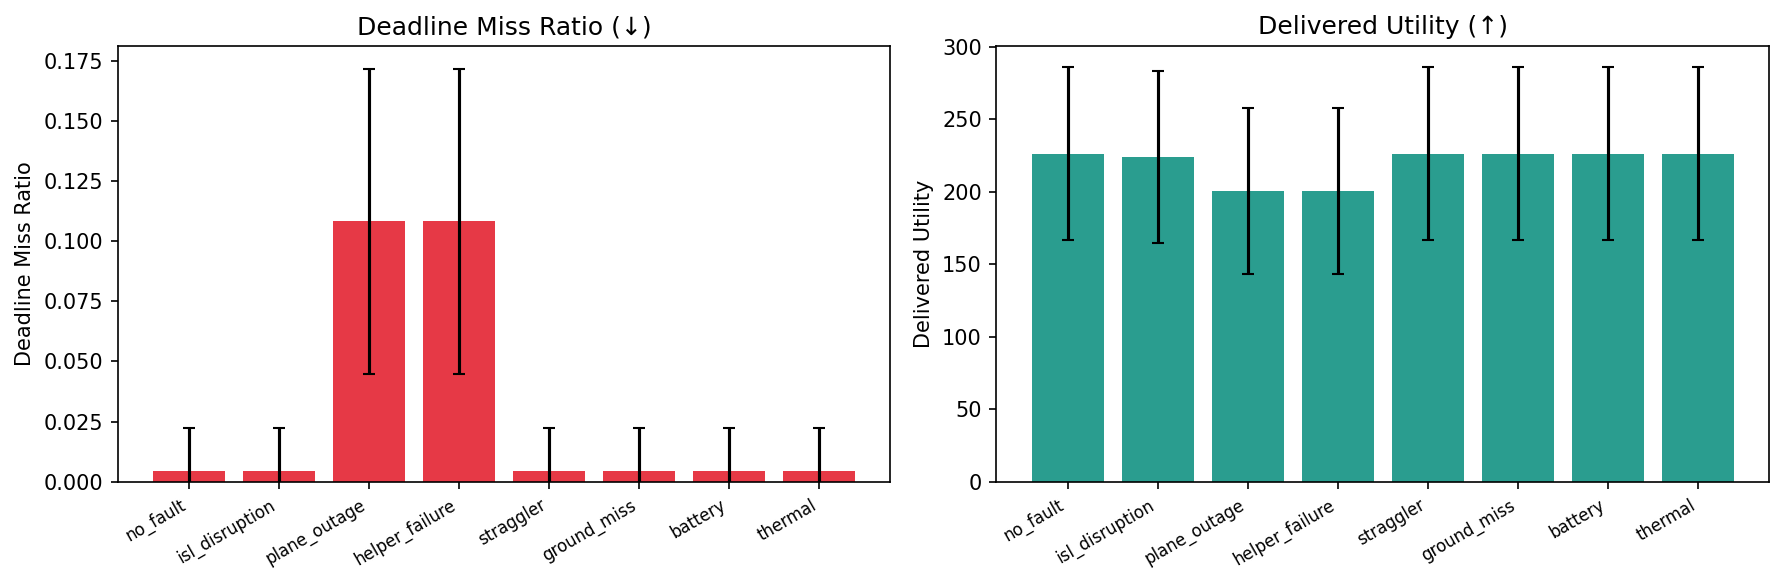
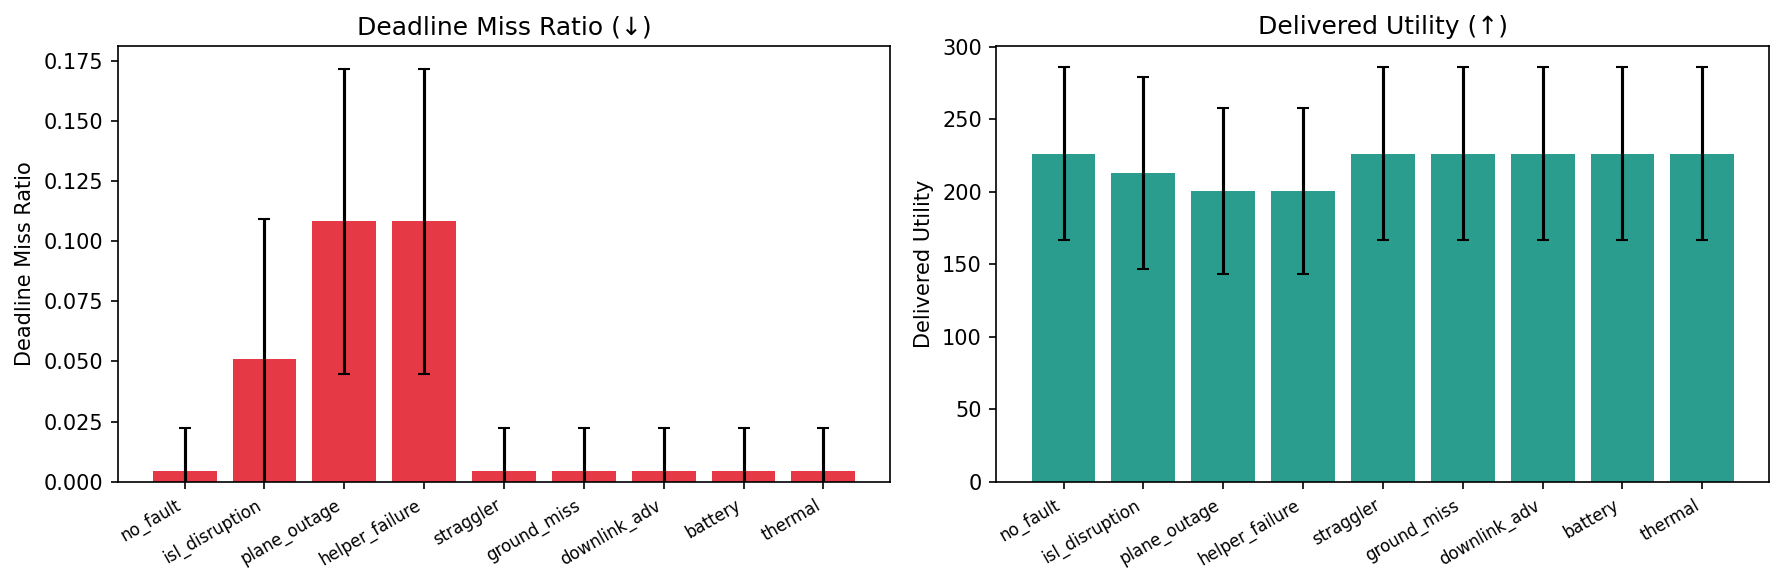
chore: track experiment results and figures in git
Stop gitignoring results/ and commit the current experiment CSVs and
figures (E1-E8 regenerated, REAL added, COTS removed) so results are
versioned alongside the code. Update the README orbit section to reflect
the Skyfield-only backend.

diff --git a/README.md b/README.md
@@ -89,15 +89,9 @@ uv run python -m ordi.main plot all
 
 Experiment CSV files are written to `results/`. Generated plots are written to `figure/`.
 
-## Orbit Backends
+## Orbit Propagation
 
-The Taskfile uses the `brahe` propagation backend by default. Select Skyfield with:
-
-```bash
-ORBIT_BACKEND=skyfield task e1
-```
-
-When invoking Python directly, the package defaults to `skyfield`; set `ORBIT_BACKEND=brahe` to use Brahe instead.
+Orbits and contact windows are computed with Skyfield + SGP4.
 
 ## Repository Layout
 